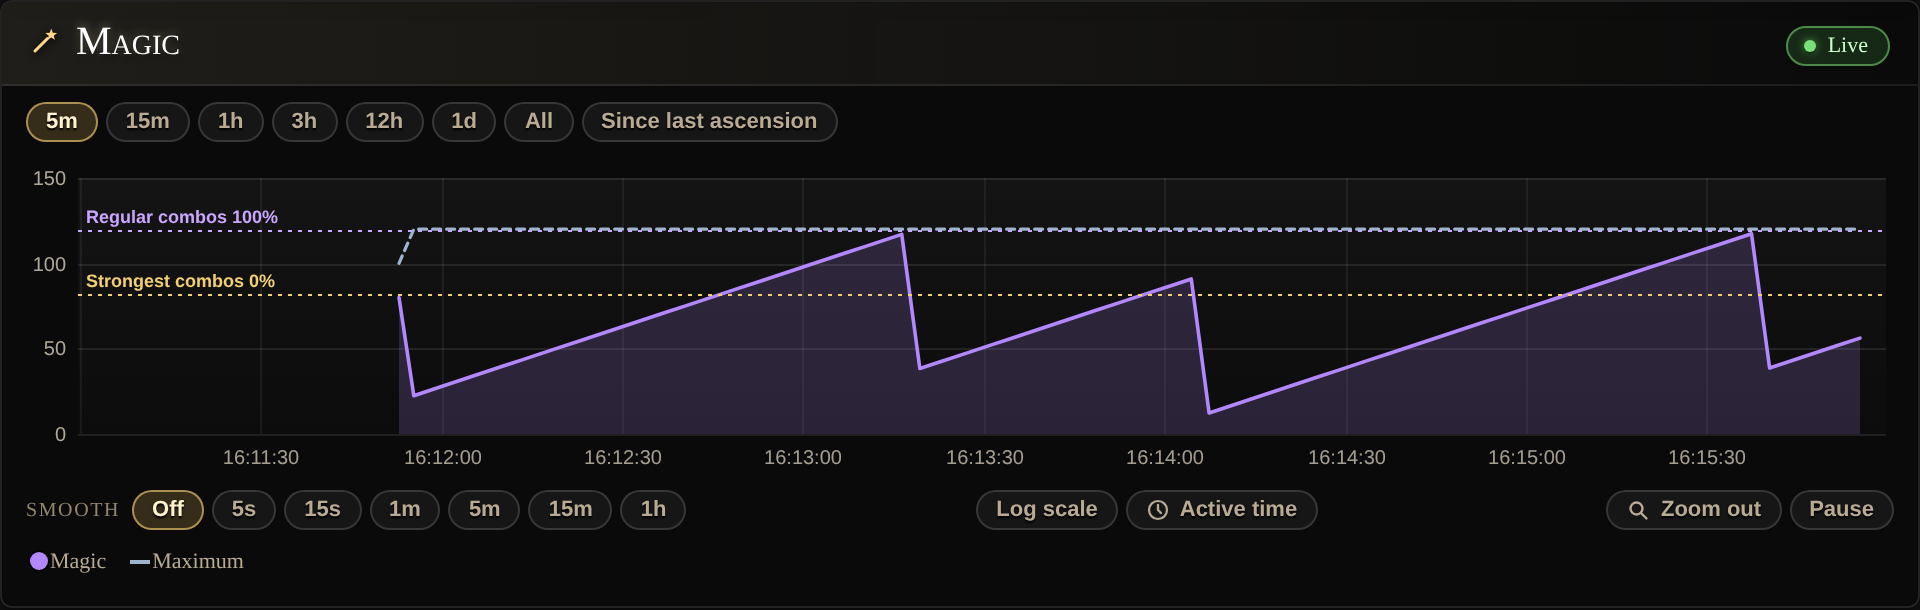
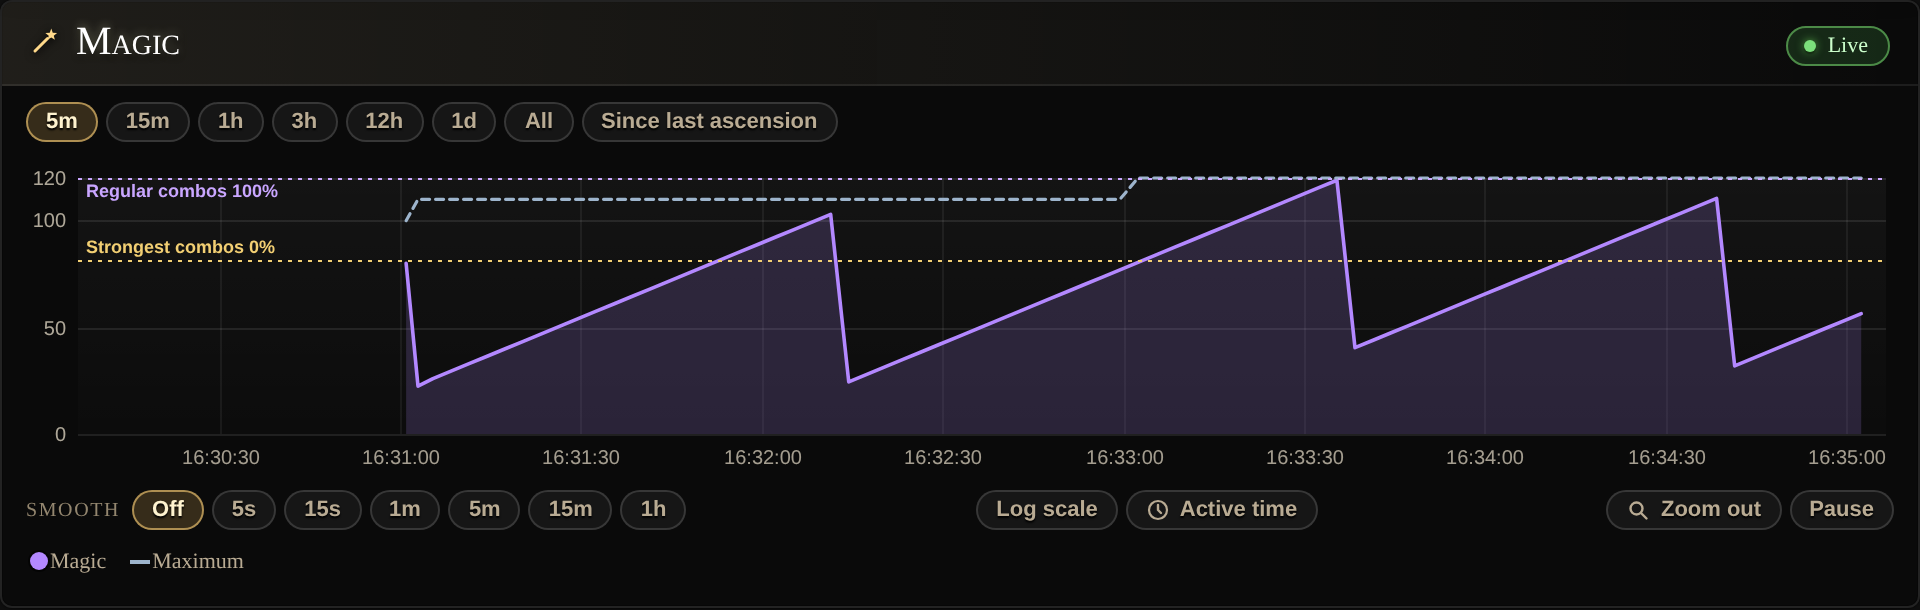
Grimoire Magic graph: y axis ends at the maximum magic
New plot option fitTop: a linear axis from 0 ends at the highest value, with the
top value labeled; a tier line at the top keeps its label below it.

Claude-Session: https://claude.ai/code/session_01ALSqfsVM1abXC87UkF4rka

diff --git a/src/ui/plot.js b/src/ui/plot.js
@@ -373,6 +373,7 @@ CA.UI.Plot = (() => {
    *                what it multiplies (mults, else value) and, two or more, all of them combined;
    *                tip() is the lane's own details, a section of the readout while it's hovered
    *                markers: [{ x, color, line, tip() }], empty: 'text', zero: true,
+   *                fitTop: true — a linear axis from 0 ends at the highest value (no headroom),
    *                xAxis: { x0, x1, labels: [{ x, label }], head(bar, x) } — an x axis in other units
    *                (e.g. garden ticks) for the bars, lines and markers this build returns }
    *   stats(v, data) → HTML (tiles above the chart), footer(v, data) → HTML (below the legend)
@@ -667,6 +668,14 @@ CA.UI.Plot = (() => {
         yMin = 0;
         yMax = 10;
         ticks = [0, 5, 10];
+      } else if (minV >= 0 && data.zero !== false && data.fitTop && maxV > 0) {
+        // the axis ends at the highest value, no headroom (magic: a full bar at the very top); nice ticks
+        // below it, and the top value itself labeled when it isn't crowding the last of them
+        const step = CA.UI.Chart.niceStep(maxV / 4);
+        yMin = 0;
+        yMax = maxV;
+        for (let t = 0; t <= yMax * 1.0001; t += step) ticks.push(t);
+        if (yMax - ticks[ticks.length - 1] > step * 0.3) ticks.push(yMax);
       } else if (minV >= 0 && data.zero !== false) {
         const top = maxV > 0 ? maxV * 1.08 : 10;
         const step = CA.UI.Chart.niceStep(top / 4);

diff --git a/src/ui/wizardPage.js b/src/ui/wizardPage.js
@@ -214,6 +214,7 @@ CA.UI.WizardPage = (() => {
             magicMax: CA.UI.Plot.linePoints(bars, (b) => b.v.magicMax),
           },
           hlines: tierLines(),
+          fitTop: true, // a full bar sits at the very top
           markers: CA.EventLog.list(['spell'])
             .filter((ev) => {
               const x = v.active ? ev.a : ev.t;

diff --git a/changes/grimoire-tier-lines.md b/changes/grimoire-tier-lines.md
@@ -4,3 +4,4 @@ bump: minor
 
 - **Grimoire Magic graph:** a dashed line for each cast tier of the profile in use, at the magic its threshold
   needs now (0% the spell's cost, 100% a full bar), in the tier's color and labeled with its name.
+- **Grimoire Magic graph:** the y axis ends at the maximum magic (no headroom), so a full bar sits at the very top.
